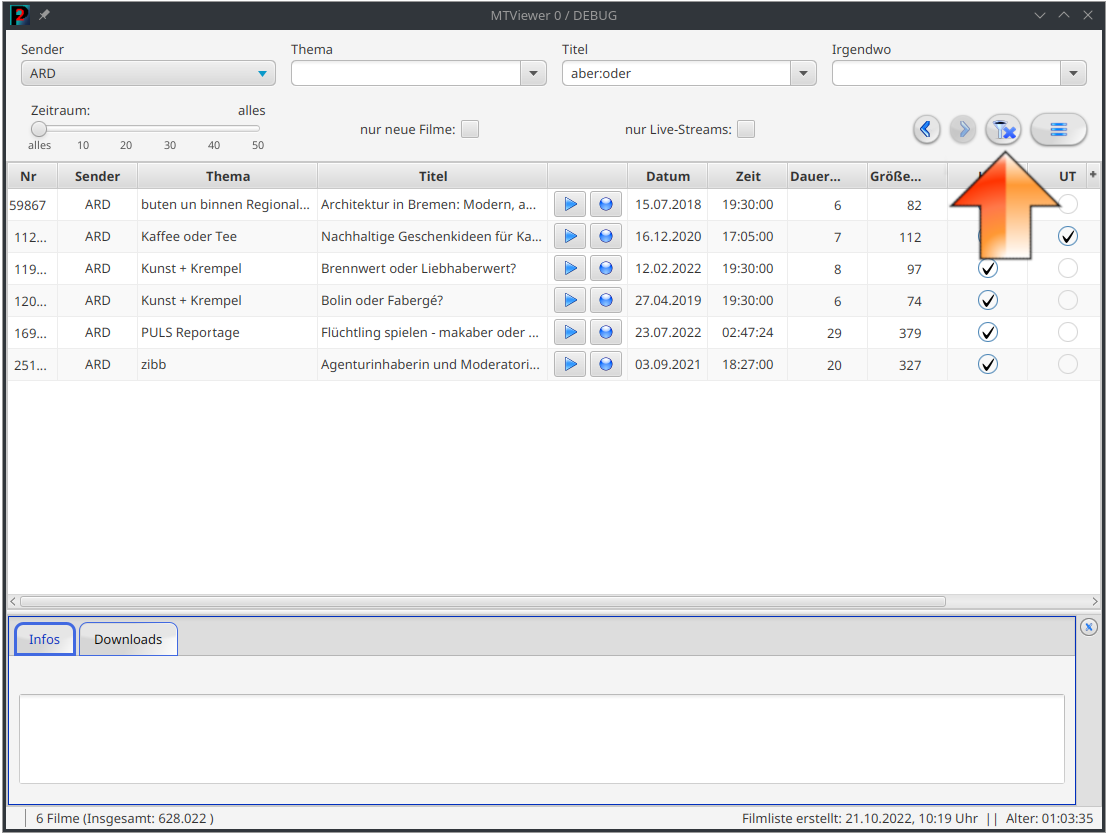
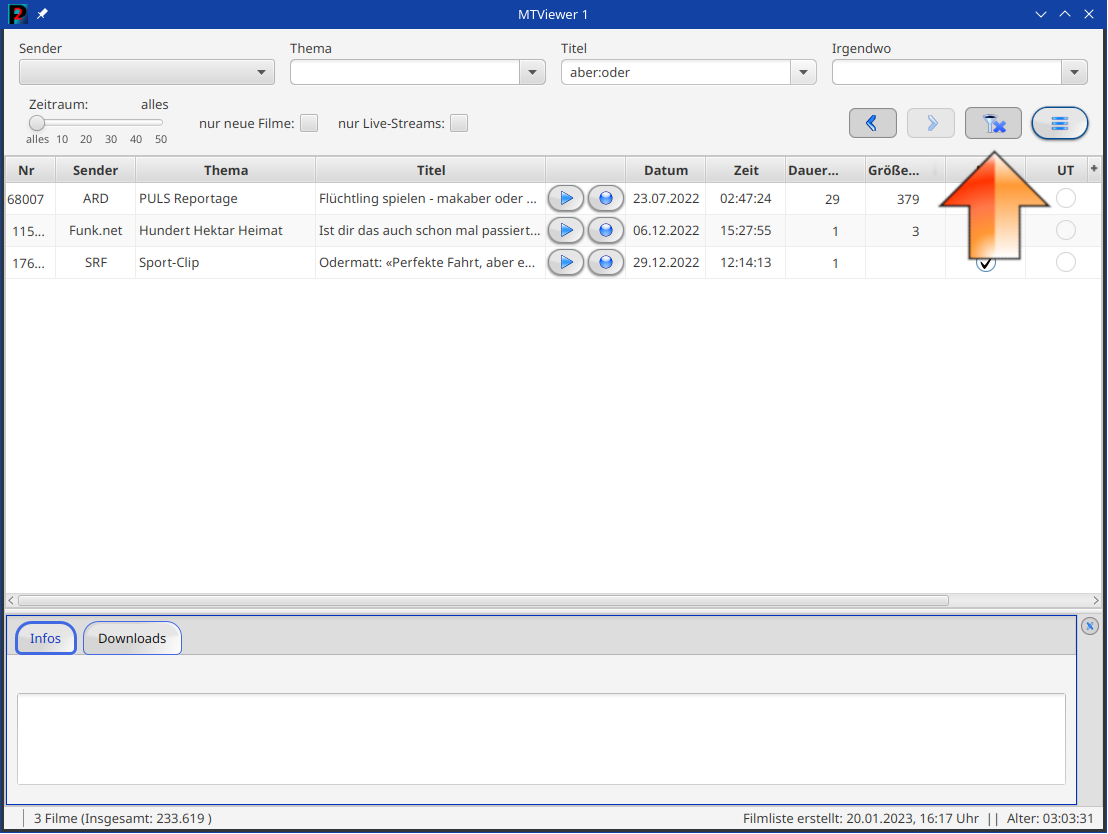
startPage
Took 10 minutes

Changed region(s): [[0.0, 0.0, 1.0, 1.0], [0.2762, 0.4365, 0.4603, 0.4676], [0.7978, 0.3741, 0.8285, 0.4053]]

diff --git a/src/main/java/de/p2tools/mtviewer/MTViewer.java b/src/main/java/de/p2tools/mtviewer/MTViewer.java
@@ -116,17 +116,14 @@ public class MTViewer extends Application {
                 ProgQuit.quit(false);
             });
 
+            //Pos setzen
+            PGuiSize.setOnlyPos(ProgConfig.SYSTEM_SIZE_GUI, primaryStage);
+
             scene.heightProperty().addListener((v, o, n) -> PGuiSize.getSizeScene(ProgConfig.SYSTEM_SIZE_GUI, primaryStage, scene));
             scene.widthProperty().addListener((v, o, n) -> PGuiSize.getSizeScene(ProgConfig.SYSTEM_SIZE_GUI, primaryStage, scene));
             primaryStage.xProperty().addListener((v, o, n) -> PGuiSize.getSizeScene(ProgConfig.SYSTEM_SIZE_GUI, primaryStage, scene));
             primaryStage.yProperty().addListener((v, o, n) -> PGuiSize.getSizeScene(ProgConfig.SYSTEM_SIZE_GUI, primaryStage, scene));
-
-            //Pos setzen
-            if (!PGuiSize.setPos(ProgConfig.SYSTEM_SIZE_GUI, primaryStage)) {
-                primaryStage.centerOnScreen();
-            }
             primaryStage.show();
-
         } catch (final Exception e) {
             e.printStackTrace();
         }

diff --git a/src/main/java/de/p2tools/mtviewer/gui/tools/table/CellProgress.java b/src/main/java/de/p2tools/mtviewer/gui/tools/table/CellProgress.java
@@ -37,6 +37,7 @@ public class CellProgress<S, T> extends TableCell<S, T> {
             @Override
             public void updateItem(Double item, boolean empty) {
                 super.updateItem(item, empty);
+
                 if (item != null) {
                     DownloadData download = getTableView().getItems().get(getIndex());
                     if (item <= DownloadConstants.PROGRESS_STARTED || item >= DownloadConstants.PROGRESS_FINISHED) {
